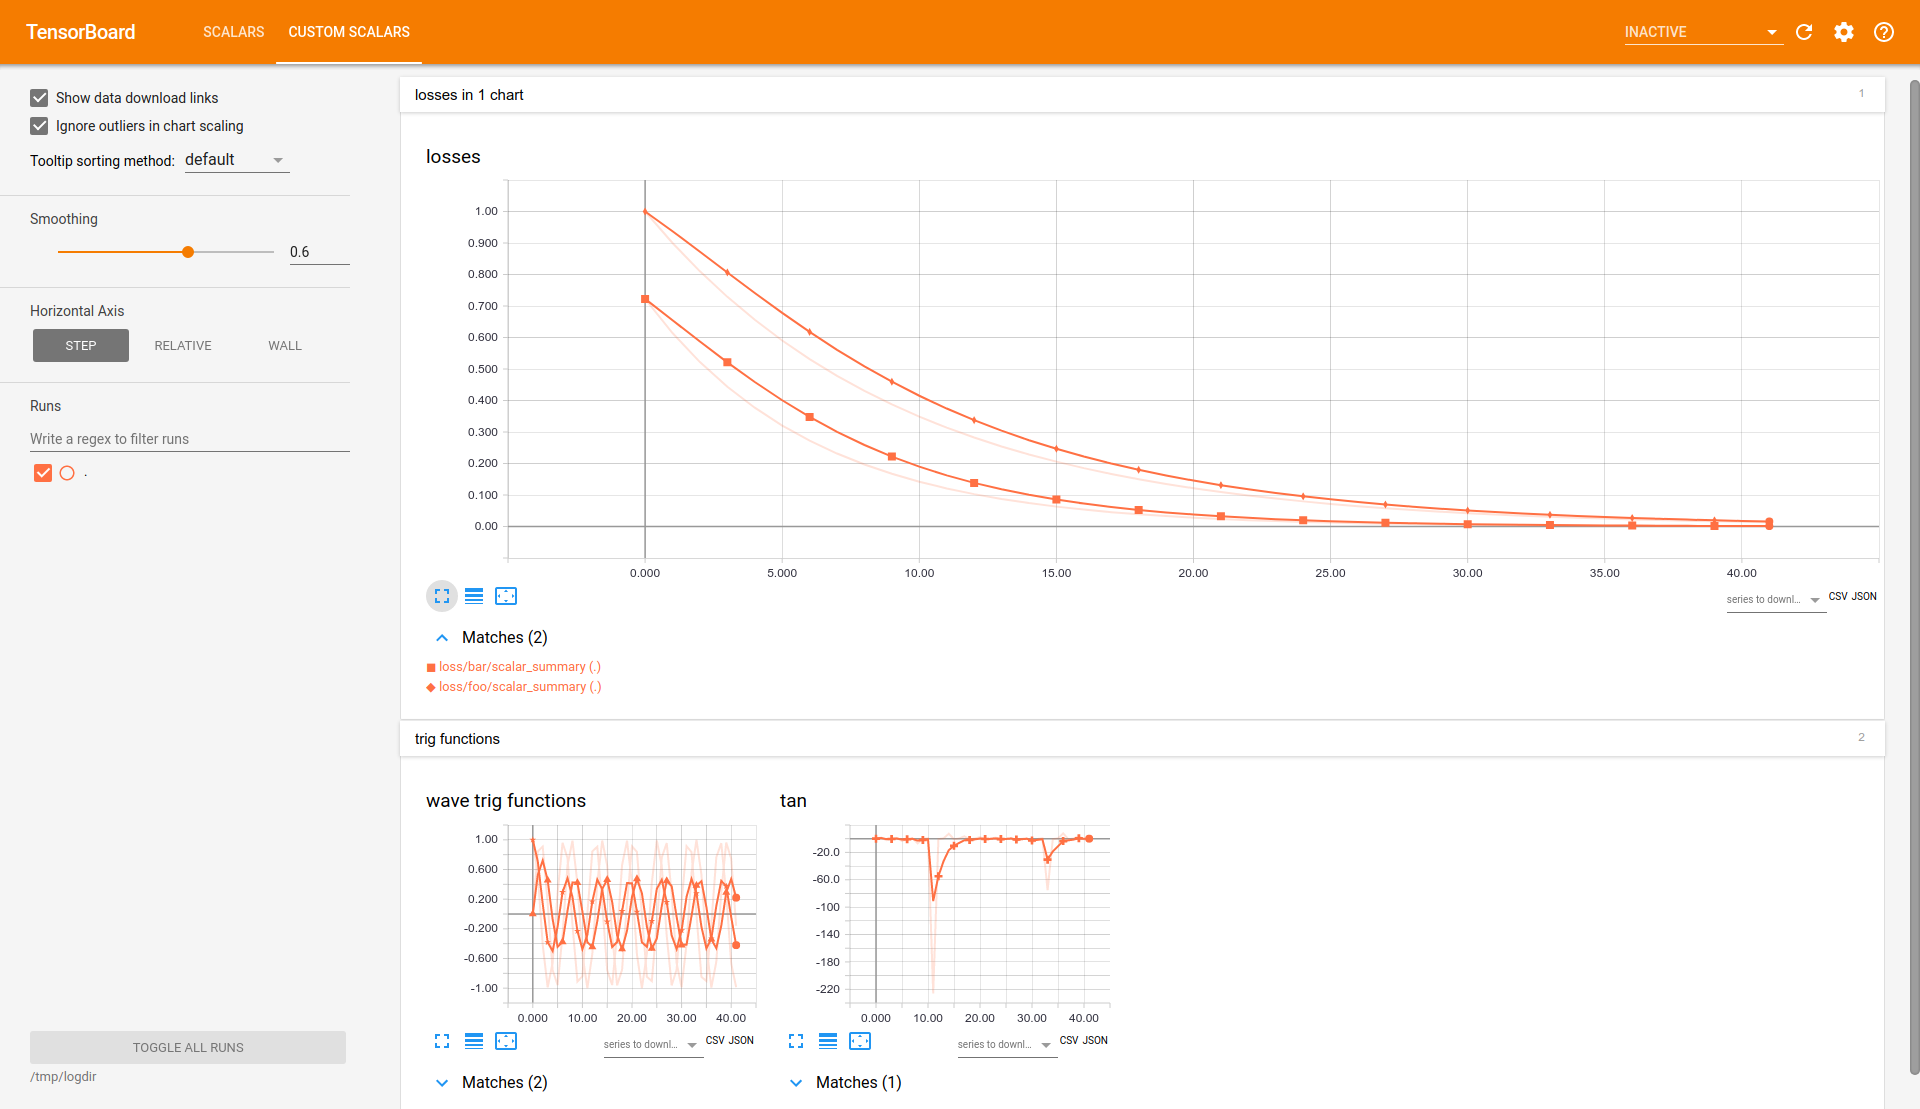
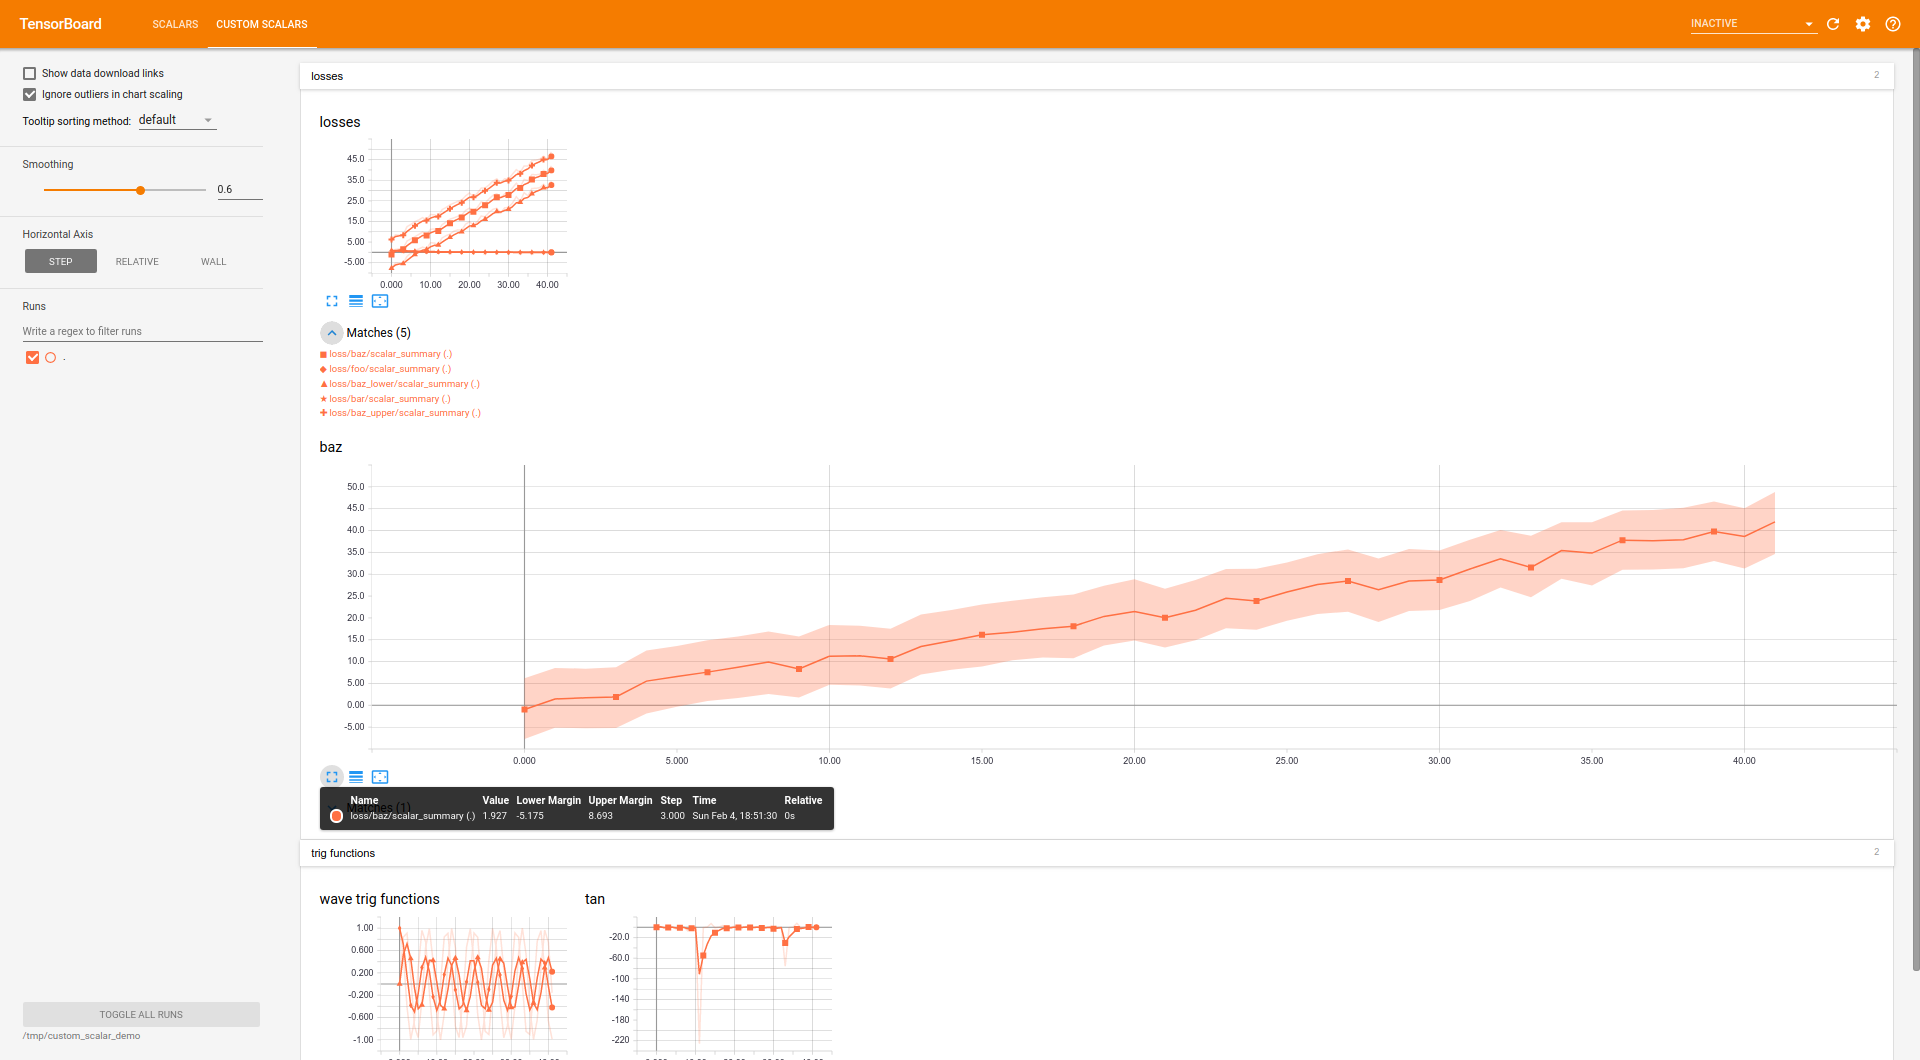
Update custom scalar plugin docs with info on margin plots (#878)
Documentation for the custom scalar plugin had not described how to create margin plots. This change describes that feature and adds/replaces screenshots.

We also remove the sample code from the documentation and instead link to custom_scalar_demo.py.

diff --git a/tensorboard/plugins/custom_scalar/README.md b/tensorboard/plugins/custom_scalar/README.md
@@ -4,9 +4,10 @@
 
 The *custom* scalar dashboard lets users
 
-1. Create line charts with custom combinations of runs and tags by assigning
+* Create line charts with custom combinations of runs and tags by assigning
 each chart a list of regular expressions for tags.
-2. Lay out the dashboard in a customized way.
+* Create margin charts (for visualizing confidence intervals).
+* Lay out the dashboard in a customized way.
 
 To use this dashboard, users first collect scalar data and then lay out the UI.
 
@@ -59,8 +60,7 @@ op but rather a Summary proto that be passed to the SummaryWriter (See sample
 code.).
 
 The `Layout` proto encapsulates the organization of the dashboard. See
-[layout.proto](layout.proto) for documentation. See the code below for an
-example of how to use it.
+[layout.proto](layout.proto) for documentation.
 
 ### Specifying a Layout via a TensorFlow op instead
 
@@ -73,67 +73,16 @@ to change the layout over time.
 
 ### Example Code
 
-```python
-from tensorboard import summary as summary_lib
-from tensorboard.plugins.custom_scalar import layout_pb2
-import tensorflow as tf
+See [custom_scalar_demo.py](custom_scalar_demo.py) for an example of collecting
+scalar data and then laying out the dashboard in a customized way.
 
-step = tf.placeholder(tf.float32, shape=[])
+The example layout contains both multi-line charts and margin charts.
 
-with tf.name_scope('loss'):
-  # Specify 2 different loss values, each tagged differently.
-  summary_lib.scalar('foo', tf.pow(0.9, step))
-  summary_lib.scalar('bar', tf.pow(0.85, step + 2))
+## Example of the Custom Scalar Dashboard UI
 
-# Log metric baz as well as upper and lower bounds for making a margin chart.
-middle_baz_value = step + 4 * tf.random_uniform() - 2
-summary_lib.scalar('baz', middle_baz_value)
-summary_lib.scalar('baz_lower', middle_baz_value - 0.3 - tf.random_uniform())
-summary_lib.scalar('baz_upper', middle_baz_value + 0.3 + tf.random_uniform())
+The logic within the demo produces this custom scalar dashboard.
 
-with tf.name_scope('trigFunctions'):
-  summary_lib.scalar('cosine', tf.cos(step))
-  summary_lib.scalar('sine', tf.sin(step))
-  summary_lib.scalar('tangent', tf.tan(step))
-
-merged_summary = tf.summary.merge_all()
-
-with tf.Session() as sess, tf.summary.FileWriter('/tmp/logdir') as writer:
-  # We only need to specify the layout once (instead of per step).
-  summary_lib.custom_scalar_pb(layout_pb2.Layout(
-    category=[
-      layout_pb2.Category(
-        title='losses in 1 chart',
-        chart=[
-            layout_pb2.Chart(
-                title='losses',
-                tag=[r'loss.*']),
-        ]),
-      layout_pb2.Category(
-        title='trig functions',
-        chart=[
-            layout_pb2.Chart(
-                title='wave trig functions',
-                tag=[r'trigFunctions/cosine', r'trigFunctions/sine']),
-            # The range of tangent is different. Lets give it its own chart.
-            layout_pb2.Chart(
-                title='tan',
-                tag=[r'trigFunctions/tangent']),
-        ],
-        # This category we care less about. Lets make it initially closed.
-        closed=True),
-    ]))
-
-  for i in xrange(42):
-    summary = sess.run(merged_summary, feed_dict={step: i})
-    writer.add_summary(summary, global_step=i)
-```
-
-## The Dashboard UI
-
-The above logic produces this custom scalar dashboard.
-
-![Dashboard for demo code](docs/sample_code_dashboard.png)
+![Dashboard for demo code](docs/demo_code_dashboard.png)
 
 Note that the layout mirrors the `layout_pb2.Layout` proto that we had passed to
 the `summary_lib.custom_scalar_pb` method. Specifically, we have 2 categories:
@@ -143,6 +92,9 @@ Within the "losses" chart are 2 lines. They correspond to tags that had been
 obtained by the regular expression `r'loss.*'`. Because the 2 tags are for the
 same run, the 2 lines differ in markers (One uses squares, while the other uses
 diamonds.) to be distinct from each other. Color still encodes the run.
+
+The baz chart is a margin chart. Zoom in (by dragging a rectangle) or hover over
+points to view margin values. Smoothing does not affect margin charts.
 
 If we expand the "trig functions" category, we find that lines for sine and
 cosine are within one chart, and the line for tangent resides in a separate one
